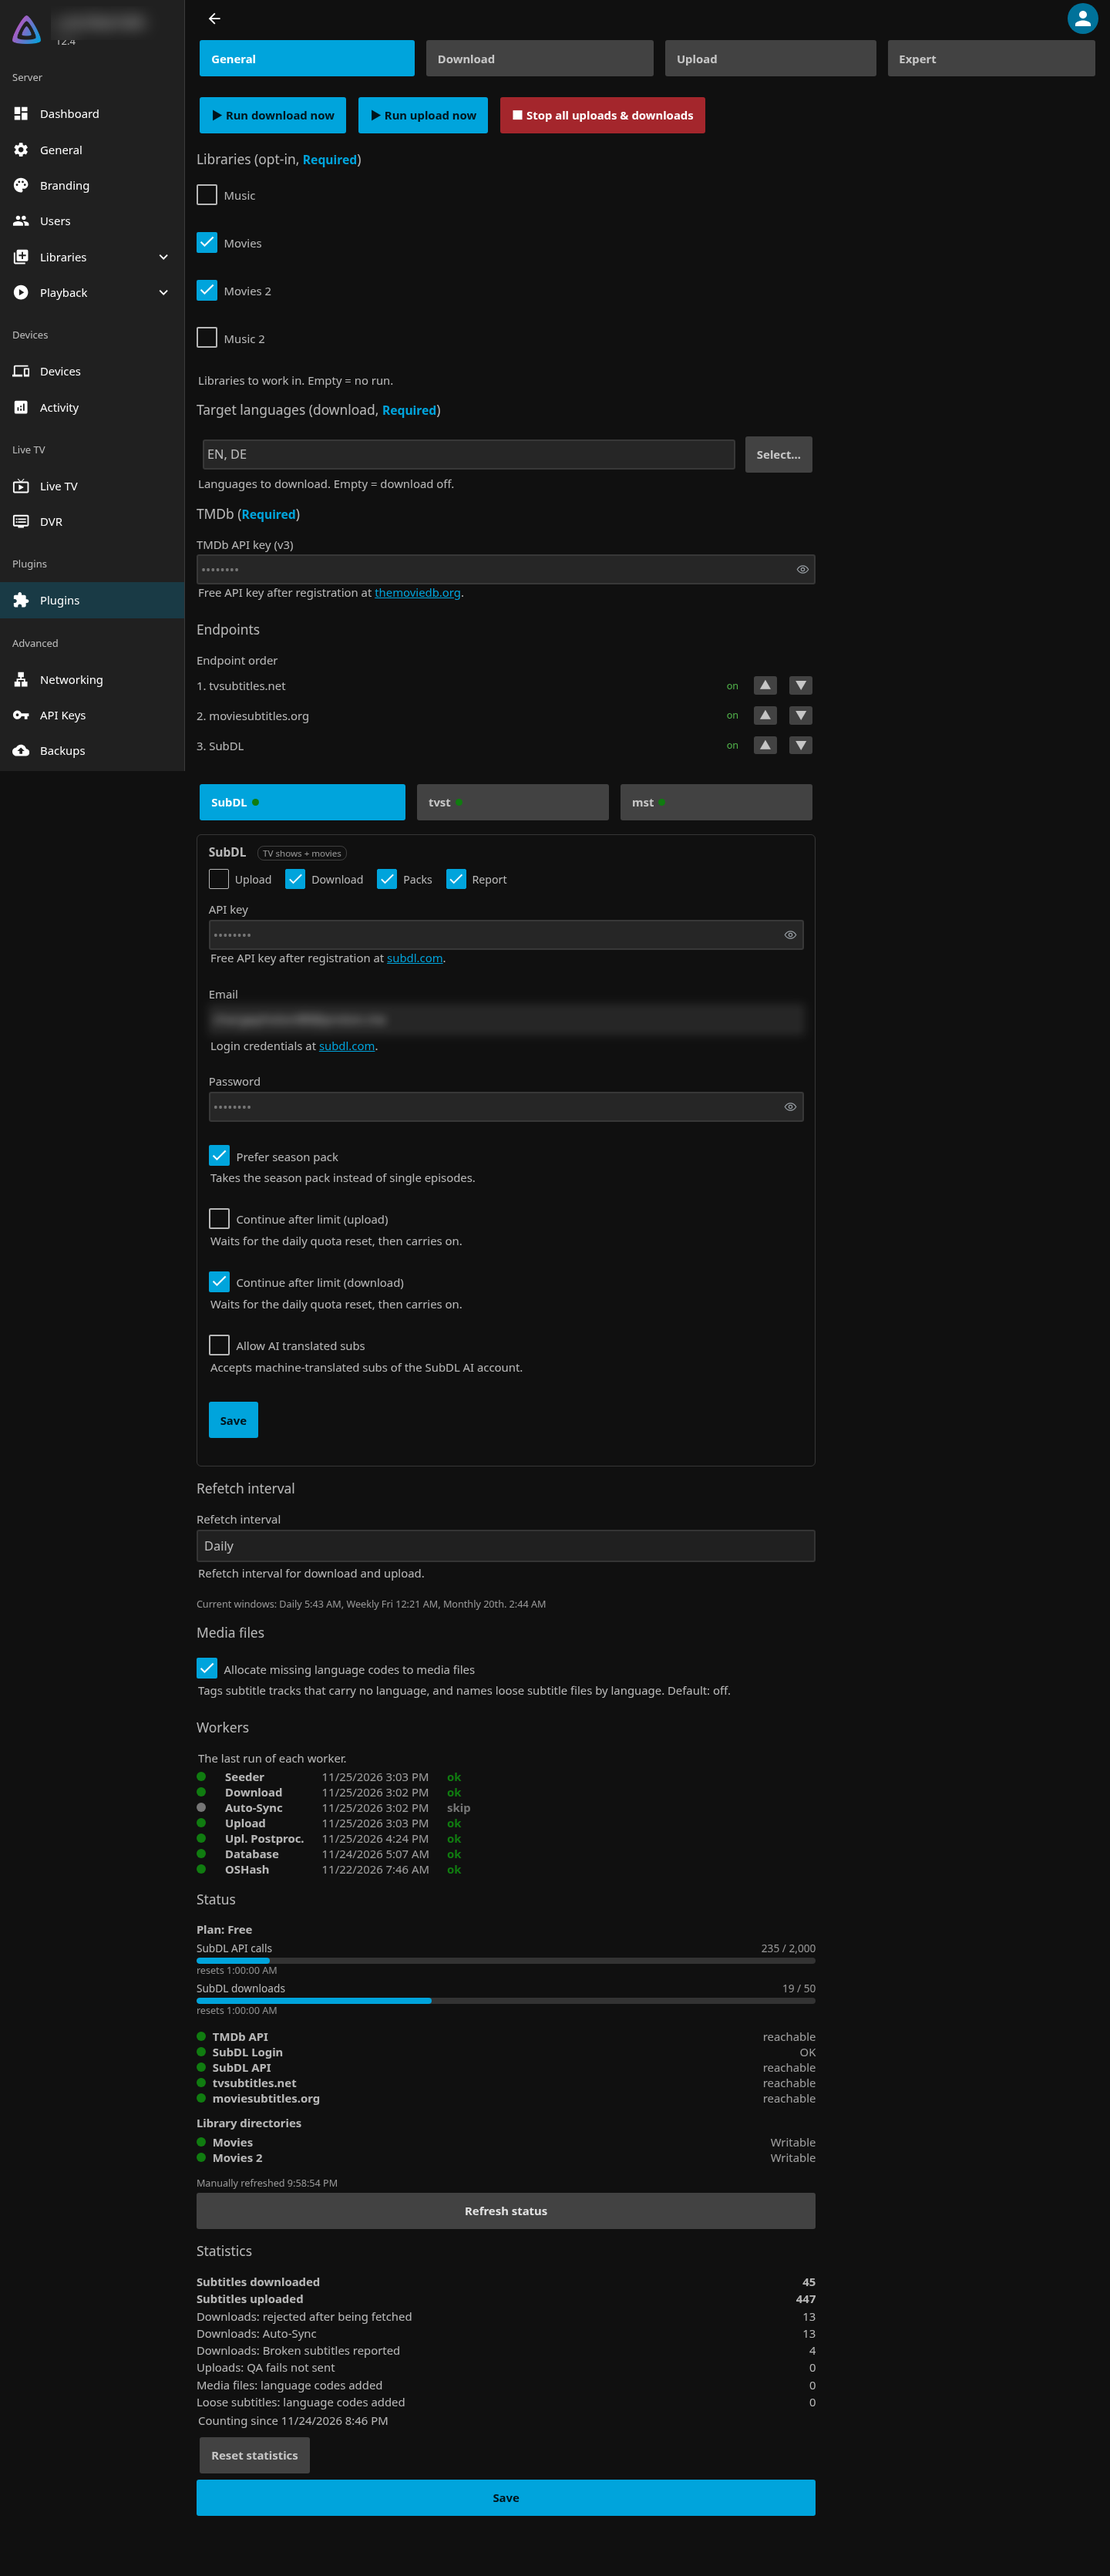
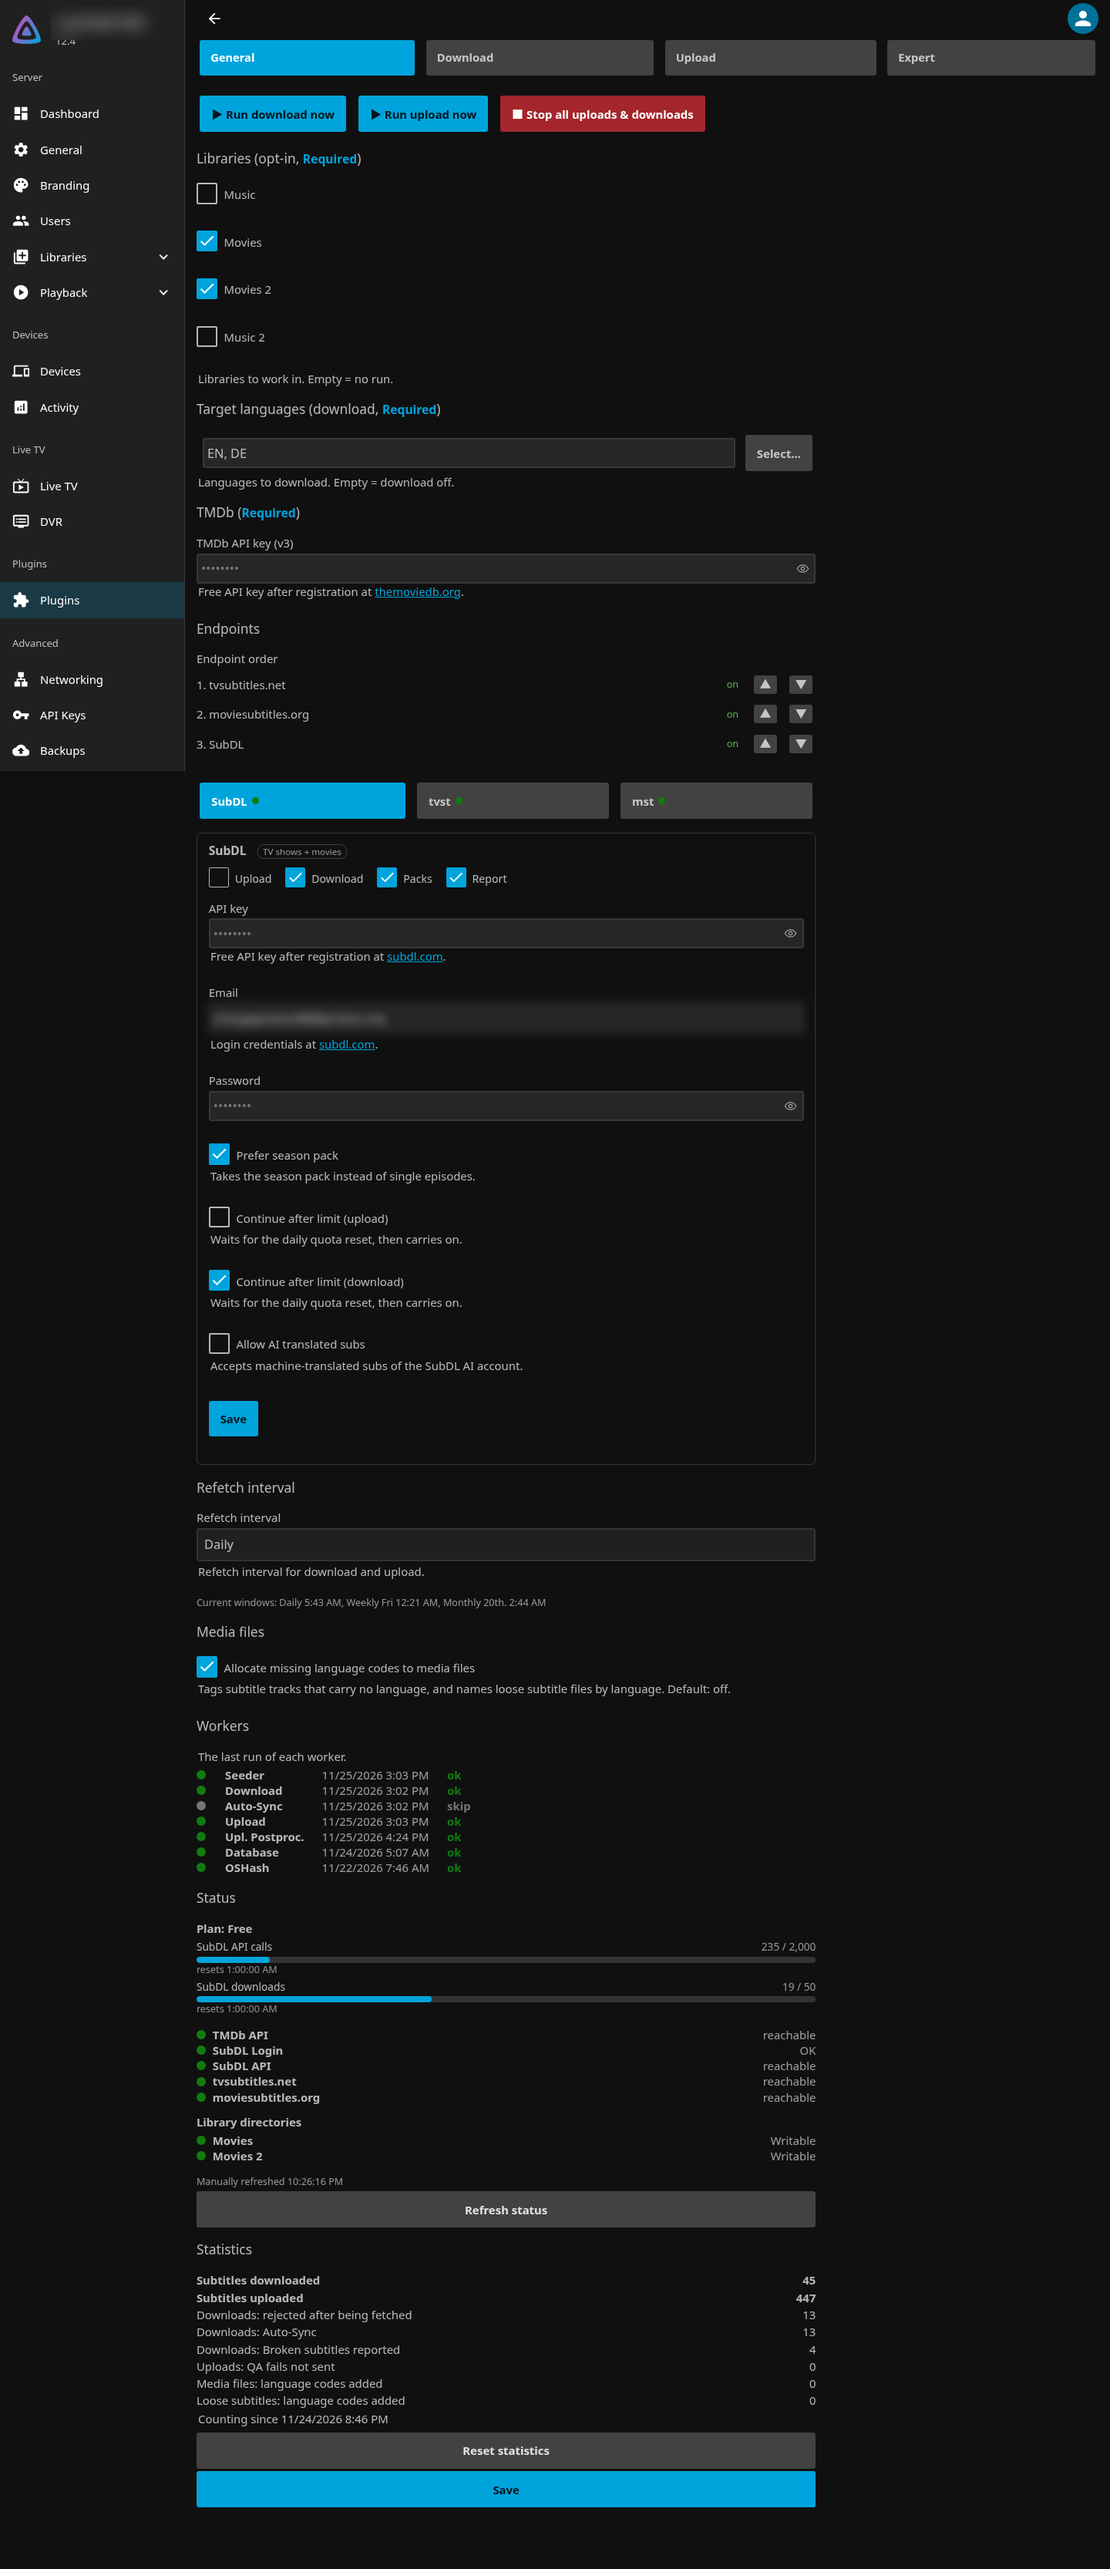
docs: README-Bilder neu aufgenommen (12.3.8.62)
Auf prod 12.3.8.62, je Reiter die ganze Seite: General 1440x3332, Download 1440x1165, Upload
1440x1000. Upload-Schalter aus (SubDL, tvst, UploadOnArrival, FollowUpRoundsUpload), reine Optik,
nichts gespeichert. E-Mail-Feld per CSS blur(6px), Serverkennung als Rechteck mit GaussianBlur(9).

Neu im Bild: Reset statistics ist grau und volle Breite wie Refresh status (F-M758). Bildmarker
auf ?v=12.3.8.62.

diff --git a/README.md b/README.md
@@ -21,16 +21,16 @@ in and one card per source (direction switches, what it serves, credentials), th
 last run of every worker. The e-mail address in the SubDL card is blurred; the plugin keeps it in the
 source's own file:
 
-![The Sub Scribe settings page](docs/images/config-general.png?v=12.3.8.61)
+![The Sub Scribe settings page](docs/images/config-general.png?v=12.3.8.62)
 
 **Download** — what gets fetched, when a run happens, and the quality gates a subtitle has to pass
 before it is saved:
 
-![Download settings](docs/images/config-download.png?v=12.3.8.61)
+![Download settings](docs/images/config-download.png?v=12.3.8.62)
 
 **Upload** — off by default; the same shape as the download side, with its own gates:
 
-![Upload settings](docs/images/config-upload.png?v=12.3.8.61)
+![Upload settings](docs/images/config-upload.png?v=12.3.8.62)
 
 ## Requirements
 
